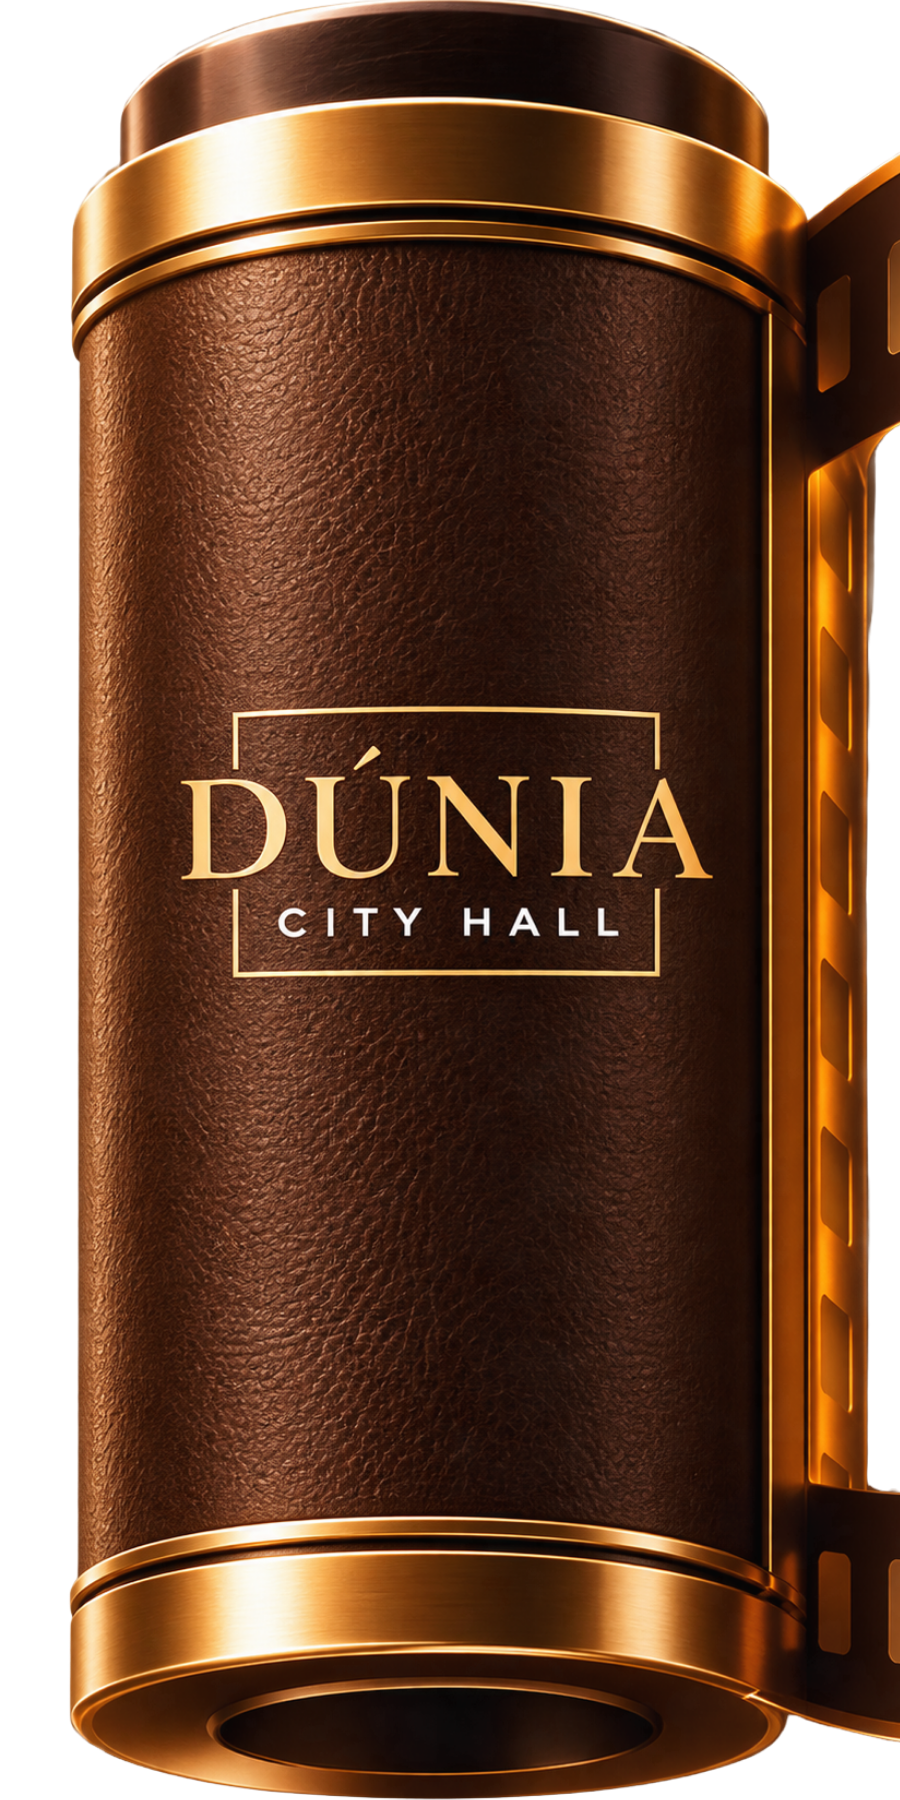
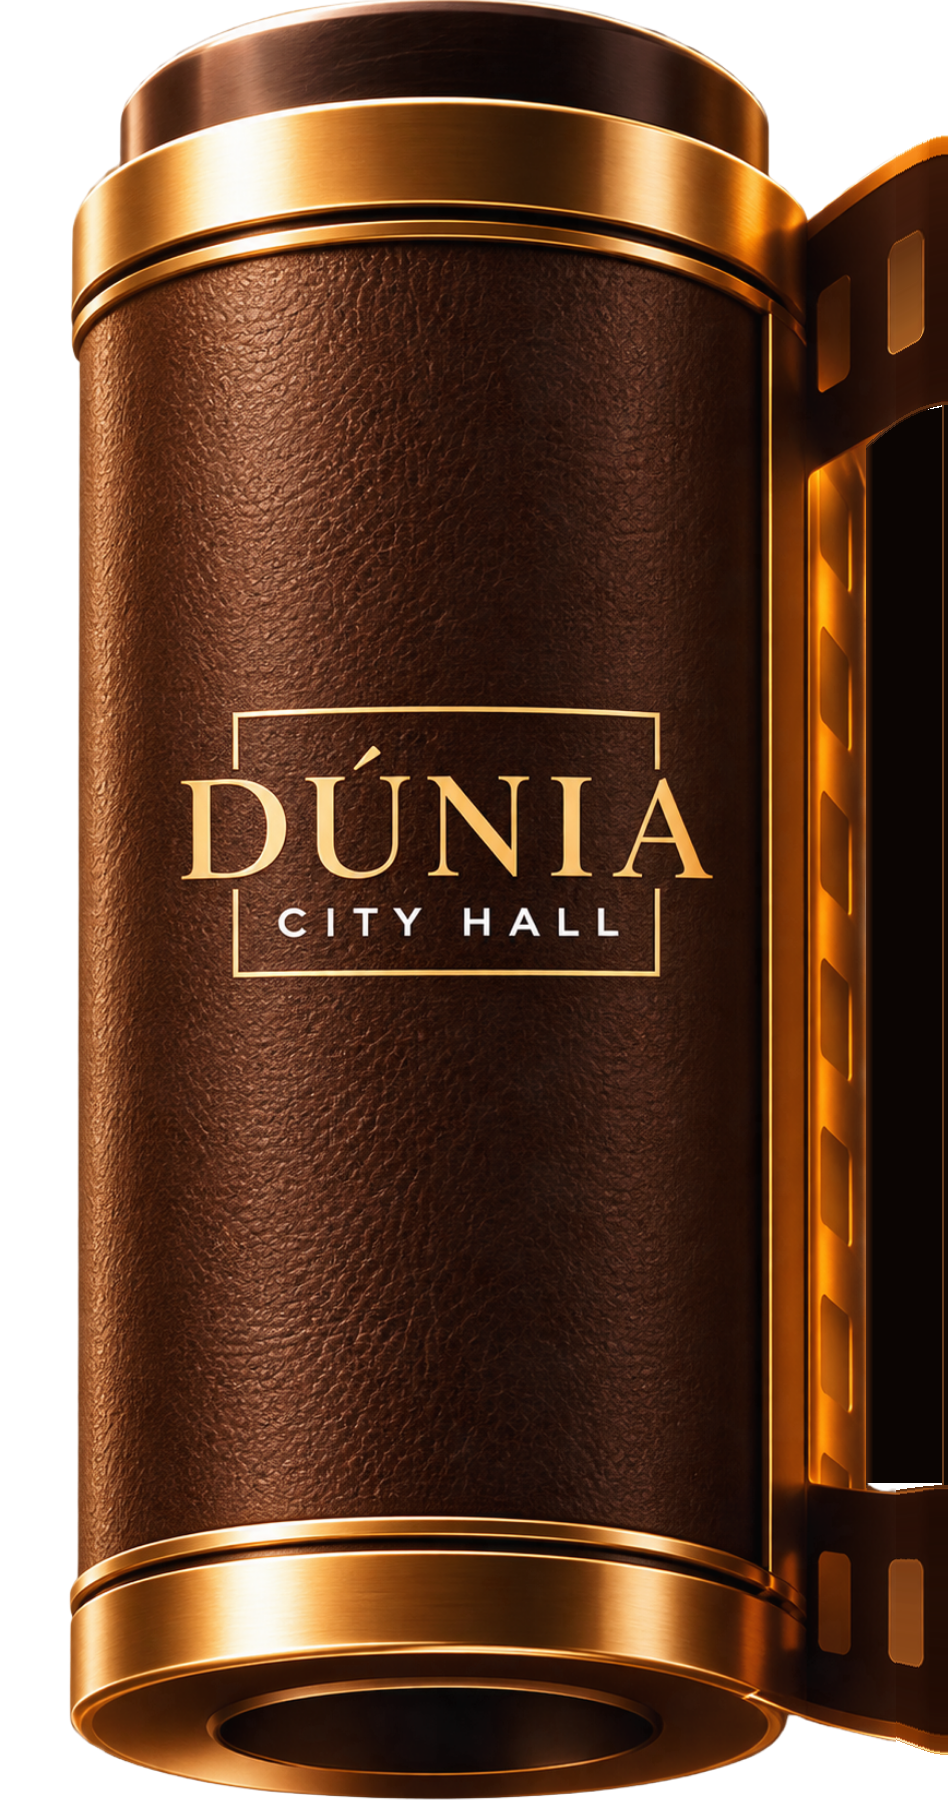
fix(gallery): reconstruir curva S do carretel 3D e alinhar as 4 linhas da pelicula 35mm sem emendas

diff --git a/src/components/dunia-gallery-viewer.tsx b/src/components/dunia-gallery-viewer.tsx
@@ -544,45 +544,48 @@ export default function DuniaGalleryViewer({
             setTimeout(() => setIsHovered(false), 2500)
           }}
         >
-          {/* CONTAINER DA PELÍCULA CONTÍNUA (ENCAIXE SUBPIXEL E BORDAS 100% INTEGRADAS AO CARRETEL 35MM) */}
-          <div className="relative flex items-center overflow-hidden rounded-2xl sm:rounded-[2rem] border border-[#BD9463]/40 bg-gradient-to-b from-[#180E08] via-[#120B08] to-[#0D0704] p-2.5 sm:p-4 lg:p-5 shadow-[0_25px_80px_rgba(0,0,0,0.85)] [--track-h:260px] sm:[--track-h:290px] md:[--track-h:310px] lg:[--track-h:330px]">
+          {/* CONTAINER DA PELÍCULA CONTÍNUA (ENCAIXE SUBPIXEL 1:1 COM O CARRETEL 3D SEM CAIXA EXTERNA CORTANDO O ROLO) */}
+          <div className="relative flex items-start py-2 sm:py-3 [--strip-h:264px] sm:[--strip-h:300px] md:[--strip-h:324px] lg:[--strip-h:348px]">
             
-            {/* 1. CARRETEL 3D DÚNIA INTEGRADO NA ORIGEM (A LINGUETA SE CONECTA COM ALINHAMENTO MILIMÉTRICO À FITA) */}
+            {/* 1. CARRETEL 3D DÚNIA INTEGRADO NA ORIGEM (CURVA S COMPLETA NIVELADA COM OS TRILHOS E JANELA ESCURA OPACA) */}
             <div
-              className="hidden md:flex shrink-0 relative z-20 select-none mr-[-26px] lg:mr-[-32px] pointer-events-none items-center justify-center"
+              className="hidden md:block shrink-0 relative z-20 select-none mr-[-2px] pointer-events-none"
               style={{
-                height: "calc(var(--track-h) * 1.13066)",
-                width: "calc(var(--track-h) * 0.56533)",
-                transform: "translateY(calc(var(--track-h) * -0.09485))",
+                height: "calc(var(--strip-h) * 1.11111)",
+                width: "calc(var(--strip-h) * 0.58519)",
               }}
             >
+              {/* Brilho quente ambiental atrás do carretel */}
+              <div className="absolute -inset-3 rounded-full bg-[#D9822B]/15 blur-2xl pointer-events-none" />
               <Image
                 src="/images/dunia/dunia-film-canister.png"
                 alt="Carretel de Filme Dúnia City Hall"
-                width={900}
+                width={948}
                 height={1800}
                 priority
-                className="h-full w-full object-contain filter drop-shadow-[0_15px_35px_rgba(0,0,0,0.95)]"
+                unoptimized
+                className="relative z-10 h-full w-full object-fill filter drop-shadow-[0_18px_36px_rgba(0,0,0,0.95)]"
               />
             </div>
 
-            {/* 2. O CARROSSEL DE FITA CONTÍNUA (ALTURA E BORDAS RIGOROSAMENTE ALINHADAS AO CARRETEL) */}
+            {/* 2. O CARROSSEL DE FITA CONTÍNUA (ALINHAMENTO SUBPIXEL EXATO NAS 4 LINHAS HORIZONTAIS DO CARRETEL) */}
             <div
               ref={filmTrackRef}
               onScroll={handleScroll}
               onMouseDown={handleMouseDown}
               onMouseMove={handleMouseMove}
               onMouseUp={handleMouseUp}
-              className={`dunia-scrollbar flex-1 flex items-stretch overflow-x-auto bg-[#0E0704] rounded-xl ${
+              className={`dunia-scrollbar relative z-10 flex-1 flex items-stretch overflow-x-auto bg-[#0E0603] rounded-xl md:rounded-l-none md:rounded-r-[22px] shadow-[0_22px_60px_rgba(0,0,0,0.85)] ${
                 isDragging ? "cursor-grabbing" : "cursor-grab"
               }`}
               style={{
-                height: "var(--track-h)",
+                height: "var(--strip-h)",
+                marginTop: "calc(var(--strip-h) * 0.08333)",
                 scrollSnapType: isAutoScrolling ? "none" : (!isDragging && isHovered ? "x mandatory" : "none"),
                 willChange: "scroll-position",
               }}
             >
-              {/* FOTOGRAMAS CONTÍNUOS DA PELÍCULA (COMEÇA DIRETO NA LINGUETA DO CARRETEL) */}
+              {/* FOTOGRAMAS CONTÍNUOS DA PELÍCULA (TRILHOS SUPERIOR E INFERIOR ININTERRUPTOS DE PONTA A PONTA) */}
               {[...filteredPhotos.slice(0, 30), ...filteredPhotos.slice(0, 30)].map((photo, index) => {
                 const originalIndex = index % Math.min(filteredPhotos.length, 30)
                 const frameNum = String((originalIndex % 999) + 1).padStart(3, "0")
@@ -591,48 +594,52 @@ export default function DuniaGalleryViewer({
                 return (
                   <div
                     key={`${photo.id || originalIndex}-${index}`}
-                    className="flex items-stretch h-full shrink-0"
+                    onClick={() => {
+                      if (dragDistance < 6) {
+                        setSelectedPhotoIndex(originalIndex)
+                      }
+                    }}
+                    className="group relative w-[290px] sm:w-[350px] md:w-[410px] lg:w-[450px] h-full shrink-0 cursor-pointer flex flex-col bg-[#110804] select-none"
+                    style={{ scrollSnapAlign: "start" }}
                   >
-                    {/* BLOCO DO FOTOGRAMA UNIFICADO COM TRILHOS E PERFURAÇÕES */}
+                    {/* TRILHO SUPERIOR (1/6 DA FITA): BANDA EXTERNA DE PERFURAÇÕES CONTÍNUAS + BANDA INTERNA DE METADADOS */}
                     <div
-                      onClick={() => {
-                        if (dragDistance < 6) {
-                          setSelectedPhotoIndex(originalIndex)
-                        }
+                      className="w-full shrink-0 flex flex-col justify-between select-none"
+                      style={{
+                        height: "16.667%",
+                        background:
+                          "linear-gradient(180deg, #FAE7C6 0%, #E06F08 3%, #CF5D02 7%, #381608 16%, #2E1207 42%, #290F06 72%, #170904 94%, #5C2B10 100%)",
                       }}
-                      className="group relative w-[280px] sm:w-[340px] md:w-[400px] lg:w-[450px] h-full shrink-0 cursor-pointer flex flex-col bg-[#120905] transition-all duration-300 hover:brightness-[1.03]"
-                      style={{ scrollSnapAlign: "start" }}
                     >
-                      {/* TRILHO SUPERIOR INTEGRADO COM PERFURAÇÕES DOURADAS */}
-                      <div className="h-7 sm:h-8 shrink-0 bg-gradient-to-b from-[#4A2818] via-[#2F170C] to-[#1A0C06] border-t border-[#D7B78D]/90 border-b border-[#BD9463]/50 shadow-[0_1px_0_rgba(255,255,255,0.15)] flex items-center justify-between px-3 sm:px-3.5 select-none">
-                        {/* Marcador do Quadro */}
+                      {/* Fileira Contínua de Perfurações (Sprocket Holes) */}
+                      <div className="h-[56%] w-full flex items-center justify-around px-1.5 pt-0.5">
+                        {Array.from({ length: 11 }).map((_, spIdx) => (
+                          <span
+                            key={spIdx}
+                            className="h-[10px] sm:h-[12px] w-[14px] sm:w-[16px] rounded-[2.5px] bg-[#0A0402] border border-[#A6581C]/85 shadow-[inset_0_1.5px_3px_rgba(0,0,0,0.98),0_1px_0_rgba(245,175,95,0.35)] shrink-0"
+                          />
+                        ))}
+                      </div>
+
+                      {/* Sub-barra de Metadados do Quadro (Acima da Fotografia) */}
+                      <div className="h-[44%] w-full flex items-center justify-between px-3.5 border-t border-[#8B491C]/30 bg-black/15">
                         <div className="flex items-center gap-1.5 shrink-0">
-                          <span className="font-mono text-[0.62rem] sm:text-[0.68rem] font-bold text-[#BD9463] tracking-widest flex items-center gap-1">
-                            <span>▶</span> {frameNum}
+                          <span className="font-mono text-[0.60rem] sm:text-[0.66rem] font-bold text-[#E5B882] tracking-widest flex items-center gap-1">
+                            <span className="text-[0.52rem]">▶</span> {frameNum}
                           </span>
-                          <span className="text-[0.52rem] sm:text-[0.58rem] font-mono text-[#D7B78D]/70 uppercase tracking-widest hidden sm:inline">
+                          <span className="text-[0.54rem] sm:text-[0.60rem] font-mono text-[#D7B78D]/85 uppercase tracking-widest">
                             DÚNIA 35MM
                           </span>
                         </div>
-
-                        {/* Furos de Perfuração (Sprocket Holes) */}
-                        <div className="flex items-center gap-1.5 sm:gap-2">
-                          {Array.from({ length: 6 }).map((_, spIdx) => (
-                            <span
-                              key={spIdx}
-                              className="h-2.5 sm:h-3 w-3.5 sm:w-4 rounded-[2.5px] bg-[#070403] border border-[#BD9463]/80 shadow-[inset_0_1.5px_3px_rgba(0,0,0,0.95),0_0_5px_rgba(215,183,141,0.35)] shrink-0"
-                            />
-                          ))}
-                        </div>
-
-                        {/* Marcação de Borda */}
-                        <span className="text-[0.52rem] sm:text-[0.58rem] font-mono text-[#BD9463]/75 uppercase tracking-wider shrink-0">
+                        <span className="text-[0.54rem] sm:text-[0.60rem] font-mono text-[#D7B78D]/85 uppercase tracking-widest shrink-0">
                           ISO 400
                         </span>
                       </div>
+                    </div>
 
-                      {/* ÁREA ÚTIL: FOTOGRAFIA EM DESTAQUE COM MOLDURA DOURADA */}
-                      <div className="relative flex-1 w-full overflow-hidden bg-black border-x border-[#BD9463]/30">
+                    {/* JANELA CENTRAL DA FOTOGRAFIA (4/6 DA FITA) COM DIVISÓRIA VERTICAL ENTRE QUADROS */}
+                    <div className="relative w-full flex-1 bg-[#140904] pr-2.5 sm:pr-3">
+                      <div className="relative h-full w-full overflow-hidden bg-black border border-[#7A431D]/70 shadow-[inset_0_0_12px_rgba(0,0,0,0.8)]">
                         <Image
                           src={photo.src}
                           alt={photo.title}
@@ -643,7 +650,7 @@ export default function DuniaGalleryViewer({
                         />
 
                         {/* Gradiente Inferior para Alto Contraste da Legenda Integrada */}
-                        <div className="absolute inset-x-0 bottom-0 h-28 bg-gradient-to-t from-black/95 via-black/40 to-transparent pointer-events-none" />
+                        <div className="absolute inset-x-0 bottom-0 h-28 bg-gradient-to-t from-black/95 via-black/45 to-transparent pointer-events-none" />
 
                         {/* Botão de Ampliação no Hover */}
                         <div className="absolute top-3 right-3 rounded-xl bg-black/60 p-2 text-white/90 opacity-0 backdrop-blur-md transition group-hover:opacity-100 shadow-md">
@@ -651,12 +658,12 @@ export default function DuniaGalleryViewer({
                         </div>
 
                         {/* Legenda Integrada sobre a Foto */}
-                        <div className="absolute bottom-2.5 inset-x-3 flex items-end justify-between gap-3 text-white">
+                        <div className="absolute bottom-2.5 inset-x-3.5 flex items-end justify-between gap-3 text-white">
                           <div className="space-y-0.5 truncate flex-1">
-                            <span className="text-[0.62rem] sm:text-[0.66rem] font-bold uppercase tracking-[0.2em] text-[#BD9463] block truncate drop-shadow-sm">
+                            <span className="text-[0.60rem] sm:text-[0.65rem] font-bold uppercase tracking-[0.2em] text-[#D7B78D] block truncate drop-shadow-sm">
                               {photo.label}
                             </span>
-                            <h4 className="font-serif text-sm sm:text-base lg:text-[1.12rem] font-normal text-white group-hover:text-[#E8D4BF] transition truncate leading-snug drop-shadow-md">
+                            <h4 className="font-serif text-sm sm:text-base lg:text-[1.15rem] font-normal text-white group-hover:text-[#F3E1C8] transition truncate leading-snug drop-shadow-md">
                               {photo.title}
                             </h4>
                           </div>
@@ -664,52 +671,62 @@ export default function DuniaGalleryViewer({
                           {/* Botão de Favoritar (Coração) */}
                           <button
                             onClick={(e) => toggleLike(e, photo.id || originalIndex)}
-                            className="shrink-0 p-1.5 text-[#BD9463] hover:scale-115 transition active:scale-95 drop-shadow-md"
+                            className="shrink-0 p-1.5 text-[#D7B78D] hover:scale-115 transition active:scale-95 drop-shadow-md"
                             title={isLiked ? "Remover dos favoritos" : "Salvar inspiração"}
                             aria-label="Favoritar foto"
                           >
                             <Heart
                               className={`h-4 w-4 sm:h-4.5 sm:w-4.5 transition-colors ${
-                                isLiked ? "fill-[#BD9463] text-[#BD9463]" : "text-[#BD9463]/75 hover:text-[#BD9463]"
+                                isLiked ? "fill-[#BD9463] text-[#BD9463]" : "text-[#D7B78D]/85 hover:text-[#BD9463]"
                               }`}
                             />
                           </button>
                         </div>
                       </div>
+                    </div>
 
-                      {/* TRILHO INFERIOR INTEGRADO COM PERFURAÇÕES */}
-                      <div className="h-7 sm:h-8 shrink-0 bg-gradient-to-b from-[#1A0C06] via-[#2F170C] to-[#4A2818] border-t border-[#BD9463]/50 border-b border-[#D7B78D]/90 shadow-[0_-1px_0_rgba(255,255,255,0.1)] flex items-center justify-between px-3 sm:px-3.5 select-none">
-                        {/* Código do Fotograma Inferior */}
-                        <span className="font-mono text-[0.58rem] sm:text-[0.64rem] font-semibold text-[#BD9463]/85 tracking-widest shrink-0">
+                    {/* TRILHO INFERIOR (1/6 DA FITA): BANDA INTERNA DE METADADOS + BANDA EXTERNA DE PERFURAÇÕES CONTÍNUAS */}
+                    <div
+                      className="w-full shrink-0 flex flex-col justify-between select-none"
+                      style={{
+                        height: "16.667%",
+                        background:
+                          "linear-gradient(180deg, #5C2B10 0%, #140703 7%, #220C04 35%, #210C04 65%, #240E05 84%, #692A04 93%, #CF5D02 97%, #E5AB5E 100%)",
+                      }}
+                    >
+                      {/* Sub-barra de Metadados Inferior (Abaixo da Fotografia) */}
+                      <div className="h-[44%] w-full flex items-center justify-between px-3.5 border-b border-[#8B491C]/30 bg-black/15">
+                        <span className="font-mono text-[0.58rem] sm:text-[0.64rem] font-semibold text-[#E5B882]/90 tracking-widest shrink-0">
                           {frameNum}A
                         </span>
-
-                        {/* Furos de Perfuração Inferiores */}
-                        <div className="flex items-center gap-1.5 sm:gap-2">
-                          {Array.from({ length: 6 }).map((_, spIdx) => (
-                            <span
-                              key={spIdx}
-                              className="h-2.5 sm:h-3 w-3.5 sm:w-4 rounded-[2.5px] bg-[#070403] border border-[#BD9463]/80 shadow-[inset_0_1.5px_3px_rgba(0,0,0,0.95),0_0_5px_rgba(215,183,141,0.35)] shrink-0"
-                            />
-                          ))}
-                        </div>
-
-                        {/* Marca d'água de fita */}
-                        <span className="text-[0.52rem] sm:text-[0.58rem] font-mono text-[#BD9463]/70 uppercase tracking-widest shrink-0 hidden sm:inline">
+                        <span className="text-[0.54rem] sm:text-[0.60rem] font-mono text-[#D7B78D]/80 uppercase tracking-widest shrink-0 pr-2">
                           SAFETY FILM
                         </span>
                       </div>
-                    </div>
 
-                    {/* DIVISOR DE QUADRO 35MM (Separação contínua entre fotogramas) */}
-                    <div className="w-2.5 sm:w-3 bg-gradient-to-b from-[#351C0F] via-[#140D0A] to-[#351C0F] border-x border-[#BD9463]/30 shrink-0" />
+                      {/* Fileira Contínua de Perfurações Inferiores */}
+                      <div className="h-[56%] w-full flex items-center justify-around px-1.5 pb-0.5">
+                        {Array.from({ length: 11 }).map((_, spIdx) => (
+                          <span
+                            key={spIdx}
+                            className="h-[10px] sm:h-[12px] w-[14px] sm:w-[16px] rounded-[2.5px] bg-[#0A0402] border border-[#A6581C]/85 shadow-[inset_0_1.5px_3px_rgba(0,0,0,0.98),0_1px_0_rgba(245,175,95,0.35)] shrink-0"
+                          />
+                        ))}
+                      </div>
+                    </div>
                   </div>
                 )
               })}
             </div>
 
-            {/* Gradiente sutil à direita para finalização elegante do rolo */}
-            <div className="pointer-events-none absolute right-0 top-0 bottom-0 w-12 sm:w-20 bg-gradient-to-l from-[#120B08] via-[#120B08]/70 to-transparent z-15" />
+            {/* Moldura de fechamento arredondada à direita da película */}
+            <div
+              className="pointer-events-none absolute right-0 z-20 w-10 sm:w-14 rounded-r-[22px] border-r border-y border-[#D7B78D]/60 bg-gradient-to-l from-[#120B08]/90 via-[#120B08]/40 to-transparent"
+              style={{
+                height: "var(--strip-h)",
+                top: "calc(var(--strip-h) * 0.08333 + 0.75rem)",
+              }}
+            />
           </div>
 
           {/* 4. BARRA DE STATUS INFERIOR: [ARRASTE] · [PAGINAÇÃO 5 PONTOS] · [AMPLIAR] */}
